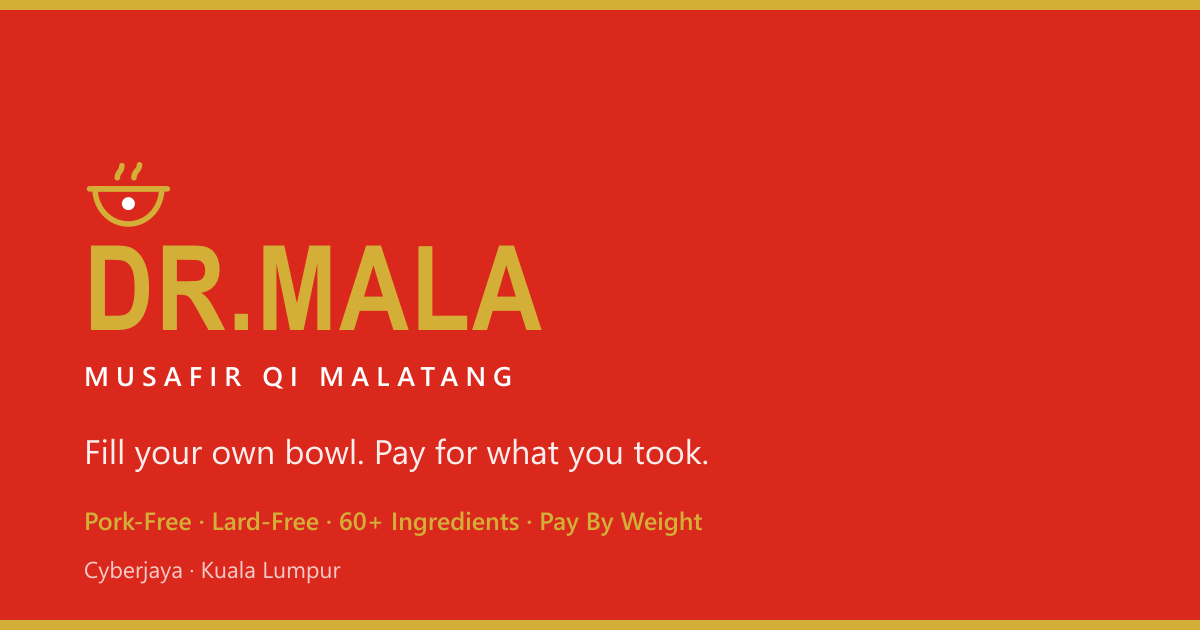
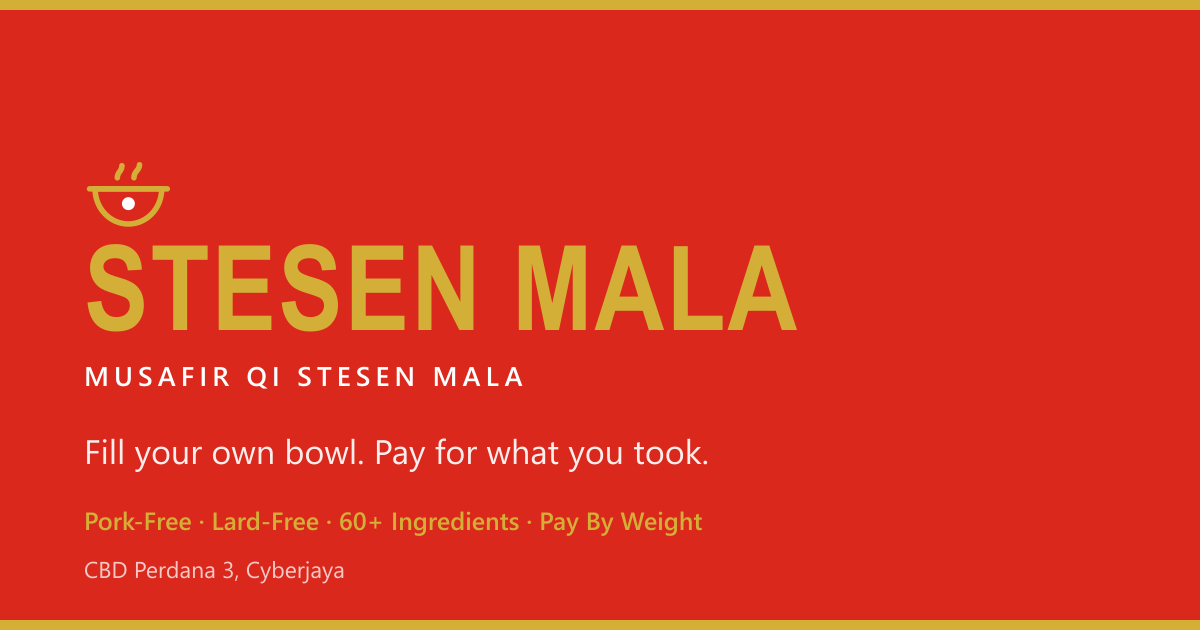
Rebrand to Musafir Qi Stesen Mala, single Cyberjaya outlet
The site was built with the wrong business name and a second outlet that
does not exist.

- Renamed throughout: "Musafir Qi Malatang" and "Dr.MaLa" become
  "Musafir Qi Stesen Mala". shortName is "Stesen Mala", because it renders
  as the large wordmark line directly above the full name and setting both
  identical printed the name twice in the header and footer.
- Removed the Kuala Lumpur outlet from src/data/locations.ts. The site now
  emits one Restaurant graph instead of two, and the location cards, footer,
  and locations page follow from the data automatically.
- Removed the outlet switcher nav on /locations, now that there is one
  outlet to switch to.
- Rewrote plural copy: "Two outlets" heading, "Both are walk in", the
  Klang Valley lede, the About stat, and the parking, group seating,
  children, and delivery FAQ answers.
- Rebuilt the logo and Open Graph SVGs and re-exported og-default.png.
- Deleted the now unused outlet-kuala-lumpur.webp and its README row.

The domain and email still read drmala.com.my. Those are separate
placeholders and remain flagged in HANDOVER.md.

Changed region(s): [[0.0617, 0.3619, 0.6783, 0.5429], [0.0925, 0.573, 0.4317, 0.6333], [0.0617, 0.8746, 0.2775, 0.9349]]

diff --git a/src/data/faq.ts b/src/data/faq.ts
@@ -37,17 +37,17 @@ export const FAQS: FaqItem[] = [
   {
     question: 'Can children eat here?',
     answer:
-      'Yes. Order the collagen or tomato base at no chilli and let them pick their own ingredients, which most children enjoy more than the eating. High chairs are available at both outlets. Ask staff to cut noodles short for small children.',
+      'Yes. Order the collagen or tomato base at no chilli and let them pick their own ingredients, which most children enjoy more than the eating. High chairs are available. Ask staff to cut noodles short for small children.',
   },
   {
     question: 'Is there parking?',
     answer:
-      'At Cyberjaya there is open surface parking along the CBD Perdana 3 shop row, and it is free after office hours. At Kuala Lumpur use the MyTOWN multi storey car park and take the lift down to Level B1. Mall parking rates apply there.',
+      'There is open surface parking along the CBD Perdana 3 shop row, and it is free after office hours. Arrive before 12:30 PM on a weekday and you will still find a bay near the door.',
   },
   {
     question: 'Do you have seating for a group or a family?',
     answer:
-      'Yes. The Cyberjaya outlet has long tables that seat eight and room to park a stroller beside you. The Kuala Lumpur outlet seats smaller groups more comfortably. For a party of ten or more, message us on WhatsApp the day before so we can hold tables together.',
+      'Yes. We have long tables that seat eight and room to park a stroller beside you. For a party of ten or more, message us on WhatsApp the day before so we can hold tables together.',
     // TODO: confirm with owner whether groups can actually reserve, and what the
     // minimum size and notice period are.
   },
@@ -61,7 +61,7 @@ export const FAQS: FaqItem[] = [
     // TODO: confirm with owner which delivery platforms are live at each outlet, then
     // replace this with the platform names and add direct links.
     answer:
-      'Delivery is available through the major food delivery apps for both outlets. Search for Musafir Qi Malatang or Dr.MaLa in your app. Delivery orders are picked from a set list rather than the full bar, because the bar is a walk-in counter. Message us on WhatsApp if you want to check what is available before you order.',
+      'Delivery is available through the major food delivery apps. Search for Musafir Qi Stesen Mala in your app. Delivery orders are picked from a set list rather than the full bar, because the bar is a walk-in counter. Message us on WhatsApp if you want to check what is available before you order.',
   },
   {
     question: 'What payment methods do you take?',

diff --git a/src/data/locations.ts b/src/data/locations.ts
@@ -1,5 +1,5 @@
 /**
- * Outlets.
+ * Outlet.
  *
  * Hours drive three things: the printed opening hours, the JSON-LD
  * openingHoursSpecification, and the live open or closed badge that the browser
@@ -72,15 +72,14 @@ export interface Location {
   imageAlt: string;
 }
 
-// TODO: confirm with owner. Both outlets currently share one placeholder WhatsApp
-// number from site.ts. Replace with the real per-outlet numbers if they differ.
+// TODO: confirm with owner. This is a placeholder, shared with site.ts.
 const PLACEHOLDER_WHATSAPP = '60120000000';
 
 export const LOCATIONS: Location[] = [
   {
     id: 'cyberjaya',
     name: 'Cyberjaya',
-    fullName: 'Musafir Qi Malatang Cyberjaya',
+    fullName: 'Musafir Qi Stesen Mala Cyberjaya',
     streetAddress: 'CBD Perdana 3',
     locality: 'Cyberjaya',
     region: 'Selangor',
@@ -102,34 +101,7 @@ export const LOCATIONS: Location[] = [
     room: 'The larger of the two rooms, with long tables that seat eight and space to park a stroller beside you.',
     image: '/images/outlet-cyberjaya.webp',
     imageAlt:
-      'The Musafir Qi Malatang Cyberjaya shopfront at CBD Perdana 3 with red signage and glass frontage',
-  },
-  {
-    id: 'kuala-lumpur',
-    name: 'Kuala Lumpur',
-    fullName: 'Musafir Qi Malatang MyTOWN',
-    streetAddress: 'MyTOWN Shopping Centre, Level B1',
-    locality: 'Kuala Lumpur',
-    region: 'Wilayah Persekutuan Kuala Lumpur',
-    postalCode: '55100',
-    country: 'MY',
-    shortAddress: 'MyTOWN Shopping Centre, Level B1, Kuala Lumpur',
-    geo: { lat: 3.129, lng: 101.7223 },
-    hours: [{ opens: '10:00', closes: '22:00', days: ALL_DAYS }],
-    hoursDisplay: '10:00 AM to 10:00 PM, daily',
-    phoneDisplay: '+60 12-000 0000',
-    whatsappNumber: PLACEHOLDER_WHATSAPP,
-    parking:
-      'Use the MyTOWN multi storey car park and take the lift down to B1. Mall parking rates apply. The IKEA Cheras car park connects on the same level if MyTOWN fills up on a weekend.',
-    landmarks: [
-      'MyTOWN Shopping Centre, Level B1',
-      'Connected to IKEA Cheras',
-      'Five minutes on foot from Cochrane MRT station',
-    ],
-    room: 'A mall unit on the lower ground floor, air conditioned, with high chairs available at the counter.',
-    image: '/images/outlet-kuala-lumpur.webp',
-    imageAlt:
-      'The Musafir Qi Malatang outlet on Level B1 of MyTOWN Shopping Centre in Kuala Lumpur',
+      'The Musafir Qi Stesen Mala Cyberjaya shopfront at CBD Perdana 3 with red signage and glass frontage',
   },
 ];
 

diff --git a/src/data/about.ts b/src/data/about.ts
@@ -11,7 +11,7 @@ export interface AboutSection {
 }
 
 export const ABOUT_INTRO =
-  'Musafir Qi Malatang started with a plain observation. Malatang is one of the best things you can eat for the money, and almost nobody in Malaysia could eat it without first asking whether it was safe for them.';
+  'Musafir Qi Stesen Mala started with a plain observation. Malatang is one of the best things you can eat for the money, and almost nobody in Malaysia could eat it without first asking whether it was safe for them.';
 
 export const ABOUT_SECTIONS: AboutSection[] = [
   {
@@ -49,7 +49,7 @@ export const ABOUT_SECTIONS: AboutSection[] = [
   {
     heading: 'The room',
     paragraphs: [
-      'We built both outlets with space, which is unusual for this kind of shop. Long tables, room between chairs, and somewhere to park a stroller.',
+      'We built the room with space, which is unusual for this kind of shop. Long tables, room between chairs, and somewhere to park a stroller.',
       'The sign outside is loud on purpose. Red, gold, and hard to miss. Inside it is quieter than you would expect from the frontage. You are meant to sit down, take your time, and finish the bowl.',
     ],
   },
@@ -57,7 +57,7 @@ export const ABOUT_SECTIONS: AboutSection[] = [
 
 export const ABOUT_STATS = [
   { value: '60+', label: 'Fresh ingredients on the bar' },
-  { value: '2', label: 'Outlets in the Klang Valley' },
+  { value: '1', label: 'Outlet, in Cyberjaya' },
   { value: '0', label: 'Pork or lard in the kitchen' },
   { value: '5', label: 'Spice levels, from none to extra' },
 ];

diff --git a/src/data/dishes.ts b/src/data/dishes.ts
@@ -111,7 +111,7 @@ export const SOUP_BASES: SoupBase[] = [
     type: 'soup',
     name: 'Tomato Soup',
     chineseName: '番茄汤底',
-    // TODO: confirm with owner that this base is on the menu at both outlets.
+    // TODO: confirm with owner that this base is on the menu.
     spice: 0,
     taste: 'Sweet and sour, built on stewed tomato. The one children finish fastest.',
     image: '/images/soup-tomato.webp',
@@ -123,7 +123,7 @@ export const SOUP_BASES: SoupBase[] = [
     type: 'soup',
     name: 'Clear Chicken Broth',
     chineseName: '清汤底',
-    // TODO: confirm with owner that this base is on the menu at both outlets.
+    // TODO: confirm with owner that this base is on the menu.
     spice: 0,
     taste: 'Light chicken stock with garlic and white pepper. It lets the ingredients taste like themselves.',
     image: '/images/soup-clear.webp',

diff --git a/src/data/site.ts b/src/data/site.ts
@@ -39,13 +39,13 @@ export interface SiteConfig {
 }
 
 export const SITE: SiteConfig = {
-  name: 'Musafir Qi Malatang',
-  shortName: 'Dr.MaLa',
+  name: 'Musafir Qi Stesen Mala',
+  shortName: 'Stesen Mala',
   chineseName: '麻辣烫',
   tagline: 'Pick your ingredients. We weigh it. You pay for exactly what you took.',
   /** Keep this under 155 characters or Google will cut it off mid sentence. */
   description:
-    'Pick and weigh malatang in Cyberjaya and Kuala Lumpur. Fill your own bowl from over 60 fresh ingredients and pay by weight. Pork free and lard free.',
+    'Pick and weigh malatang in Cyberjaya. Fill your own bowl from over 60 fresh ingredients and pay by weight. Pork free and lard free.',
   url: 'https://drmala.com.my',
 
   // TODO: confirm with owner before launch. This is a placeholder.

diff --git a/HANDOVER.md b/HANDOVER.md
@@ -21,17 +21,14 @@ grep -rn "TODO" src/
 `src/data/site.ts` → `whatsappNumber: '60120000000'`
 
 Every WhatsApp link on the site is built from this one value: the nav button, the floating
-bubble, both location cards, both outlet blocks, and all four closing call-to-action bands.
+bubble, the location card, the outlet block, and all four closing call-to-action bands.
 They all currently go nowhere.
 
 Replace it with the real number in international format, no plus sign, no spaces, no dashes.
 A Malaysian mobile looks like `60123456789`.
 
-Also update `phoneDisplay` in the same file, and `phoneDisplay` for each outlet in
-`src/data/locations.ts`. Those currently read `+60 12-000 0000`.
-
-If the two outlets use different numbers, replace the shared `PLACEHOLDER_WHATSAPP` constant
-in `src/data/locations.ts` with the two real ones.
+Also update `phoneDisplay` in the same file and in `src/data/locations.ts`. Both currently
+read `+60 12-000 0000`.
 
 ### 1.2 The halal certification wording is a placeholder
 
@@ -76,7 +73,7 @@ the `Sitemap:` line at the bottom of `public/robots.txt` to match.
 
 ### 1.5 Every image is a placeholder
 
-`public/images/` contains twelve generated WebP graphics, correctly sized and clearly
+`public/images/` contains eleven generated WebP graphics, correctly sized and clearly
 labelled. See `public/images/README.md` for the filename, dimensions, and shot brief for each
 one. The `bar-wide.webp` slot is the one that matters most, because the wide ingredient bar
 shot is what sells the concept.
@@ -162,19 +159,17 @@ block.
 
 ### Outlet coordinates
 
-`src/data/locations.ts` has approximate latitude and longitude taken from the district and
-the mall, not from your shopfronts:
+`src/data/locations.ts` has an approximate latitude and longitude taken from the district,
+not from your shopfront:
 
 - Cyberjaya: `2.9188, 101.6541`
-- Kuala Lumpur: `3.1290, 101.7223`
 
-Drop a pin on each actual door and replace them. Google uses these for the map and for local
+Drop a pin on the actual door and replace it. Google uses these for the map and for local
 search, so being 200 metres out costs you walk-ins.
 
 ### Parking and landmarks
 
-I wrote the parking notes and nearby landmarks for both outlets from general knowledge of
-those two sites. Read them and correct anything that is not true. The claim that Cyberjaya
+I wrote the parking notes and nearby landmarks from general knowledge of the area. Read them and correct anything that is not true. The claim that Cyberjaya
 parking is free after office hours is the one most likely to be wrong.
 
 ### Room descriptions
@@ -206,7 +201,7 @@ because I do not have your handles. They are in the footer on every page. Fix or
 ### The Chinese characters
 
 The site shows 麻辣烫 next to the Latin name in the header eyebrow, the footer, and the About
-page. That is the dish name, málàtàng, which is factual. If Dr.MaLa has an official Chinese
+page. That is the dish name, málàtàng, which is factual. If Musafir Qi Stesen Mala has an official Chinese
 wordmark that differs, change `chineseName` in `src/data/site.ts`.
 
 Note that the Chinese font is subset to only the glyphs currently used, for size. If you add

diff --git a/public/images/README.md b/public/images/README.md
@@ -40,9 +40,8 @@ scattered star anise as a border, anything shot on grey slate.
 | `bar-wide.webp` | 1600 x 900 | The hero shot of the whole site. The full length of the ingredient bar, straight on, every tray loaded. This is the shot that sells the concept, so give it the most attention. | `src/components/IngredientBarShowcase.astro` |
 | `bar-vegetables.webp` | 800 x 600 | The vegetable section of the bar, close. Leafy greens, corn, lotus root, mushrooms, all fresh and stacked high. | `src/components/IngredientBarShowcase.astro` |
 | `bar-meatballs.webp` | 800 x 600 | The protein section of the bar, close. Beef and chicken balls, fish tofu, sliced meat rolls in their trays with tongs. | `src/components/IngredientBarShowcase.astro` |
-| `outlet-cyberjaya.webp` | 1200 x 800 | The Cyberjaya shopfront at CBD Perdana 3, from across the walkway. Signage legible, glass frontage, ideally at dusk when the sign reads brightest. | `src/data/locations.ts`, locations page |
-| `outlet-kuala-lumpur.webp` | 1200 x 800 | The MyTOWN Level B1 unit frontage, from the mall walkway. Signage legible. | `src/data/locations.ts`, locations page |
-| `room-cyberjaya.webp` | 1200 x 900 | The Cyberjaya dining room with people in it. Long tables, the red and gold wall, enough width to show the room is spacious. | `src/pages/about.astro` |
+| `outlet-cyberjaya.webp` | 1200 x 800 | The shopfront at CBD Perdana 3, from across the walkway. Signage legible, glass frontage, ideally at dusk when the sign reads brightest. | `src/data/locations.ts`, locations page |
+| `room-cyberjaya.webp` | 1200 x 900 | The dining room with people in it. Long tables, the red and gold wall, enough width to show the room is spacious. | `src/pages/about.astro` |
 | `team-counter.webp` | 1200 x 900 | Staff cooking bowls to order behind the counter, in front of the soup pots. Faces optional, hands and steam essential. Get written consent from anyone identifiable. | `src/pages/about.astro` |
 
 ## Brand and social assets

diff --git a/README.md b/README.md
@@ -1,7 +1,7 @@
-# Musafir Qi Malatang (Dr.MaLa)
+# Musafir Qi Stesen Mala
 
-Marketing website for a pick-and-weigh, pork-free malatang restaurant with outlets in
-Cyberjaya and Kuala Lumpur.
+Marketing website for a pick-and-weigh, pork-free malatang restaurant with one outlet in
+Cyberjaya, Selangor.
 
 Built with [Astro](https://astro.build) and [Tailwind CSS](https://tailwindcss.com). It
 builds to plain static HTML with no server, no database, and no CMS. Drop the output folder
@@ -44,7 +44,7 @@ in typed files under `src/data/`. Each file has comments at the top explaining w
 | `src/data/pricing.ts` | **The price per 100 grams.** One number, used everywhere. Also the portion size guides. |
 | `src/data/ingredients.ts` | Every ingredient on the bar, grouped by category, with average gram weights. |
 | `src/data/dishes.ts` | Soup bases, spice levels, sides, drinks, and their prices. |
-| `src/data/locations.ts` | Outlet addresses, opening hours, coordinates, parking notes, landmarks. |
+| `src/data/locations.ts` | The outlet address, opening hours, coordinates, parking notes, landmarks. |
 | `src/data/faq.ts` | The questions and answers in the home page accordion. |
 | `src/data/halal.ts` | The kitchen policy and the halal certification wording. **Read the notes in this file before editing.** |
 | `src/data/steps.ts` | The four step flow and the first timer guide. |
@@ -76,7 +76,7 @@ deleting that line.
 
 ### Changing opening hours
 
-Open `src/data/locations.ts`. Each outlet has both a machine readable `hours` array and a
+Open `src/data/locations.ts`. The outlet has both a machine readable `hours` array and a
 human readable `hoursDisplay` string. **Change both.** The array drives the live open or
 closed badge and the search engine structured data. The string is what visitors read.
 
